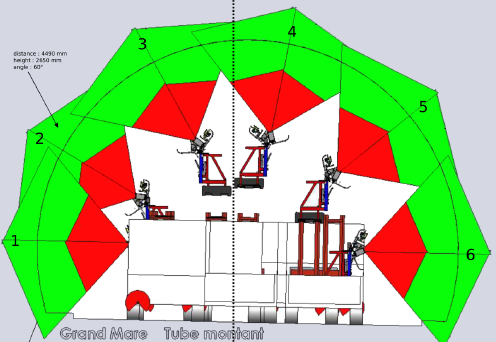
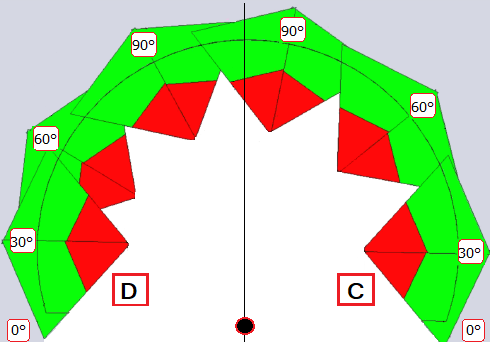
Mise à jour

diff --git a/app.py b/app.py
@@ -1639,33 +1639,33 @@ class Frames8(Frame):
             logging.error('Erreur lors de la lecture du fichier: %s', e)
             return f"Une erreur s'est produite : {e}"
 
-class OpenGLWidget(QGLWidget):
-    def __init__(self, parent=None):
-        super(OpenGLWidget, self).__init__(parent)
-        self.width = self.size().width()
-        self.height = self.size().height()
-
-    def initializeGL(self):
-        glEnable(GL_DEPTH_TEST)
-
-    def resizeGL(self, width, height):
-        self.width = width
-        self.height = height
-        glViewport(0, 0, self.width, self.height)
-        glMatrixMode(GL_PROJECTION)
-        glLoadIdentity()
-        #gluOrtho2D(0, self.width, 0, self.height)
-        glMatrixMode(GL_MODELVIEW)
-        glLoadIdentity()
-
-    def paintGL(self):
-        glClear(GL_COLOR_BUFFER_BIT | GL_DEPTH_BUFFER_BIT)
-        glBegin(GL_TRIANGLES)
-        glVertex2f(0, 0)
-        glVertex2f(self.width, 0)
-        glVertex2f(self.width / 2, self.height)
-        glEnd()
-        self.swapBuffers()
+#class OpenGLWidget(QGLWidget):
+#    def __init__(self, parent=None):
+#        super(OpenGLWidget, self).__init__(parent)
+#        self.width = self.size().width()
+#        self.height = self.size().height()
+#
+#    def initializeGL(self):
+#        glEnable(GL_DEPTH_TEST)
+#
+#    def resizeGL(self, width, height):
+#        self.width = width
+#        self.height = height
+#        glViewport(0, 0, self.width, self.height)
+#        glMatrixMode(GL_PROJECTION)
+#        glLoadIdentity()
+#        #gluOrtho2D(0, self.width, 0, self.height)
+#        glMatrixMode(GL_MODELVIEW)
+#        glLoadIdentity()
+#
+#    def paintGL(self):
+#        glClear(GL_COLOR_BUFFER_BIT | GL_DEPTH_BUFFER_BIT)
+#        glBegin(GL_TRIANGLES)
+#        glVertex2f(0, 0)
+#        glVertex2f(self.width, 0)
+#        glVertex2f(self.width / 2, self.height)
+#        glEnd()
+#        self.swapBuffers()
 class View(Frame):
     def __init__(self, parent):
         Frame.__init__(self, parent)
@@ -1682,7 +1682,7 @@ class View(Frame):
 
         # Chargement de l'image du tunnel
         self.tunnel_image_path = 'images/tunnel.png'
-        self.tunnel_canvas = Canvas(self.image_frame, width=500, height=450)
+        self.tunnel_canvas = Canvas(self.image_frame, width=500, height=350)
         self.tunnel_canvas.pack()
         self.load_tunnel_image()
 
@@ -1690,17 +1690,27 @@ class View(Frame):
         control_frame = Frame(main_frame)
         control_frame.pack(side=tk.RIGHT, fill=tk.Y, padx=5, pady=5)
 
-        # Cadre pour les boutons
+        # Cadre pour les boutons, placé par paires
         button_frame = Frame(control_frame)
         button_frame.pack(fill=tk.X)
 
-        # Boutons pour chaque commande
-        ttk.Button(button_frame, text="Voir le dossier des BDD", command=self.explorer).pack(side=tk.TOP, fill=tk.X, padx=5, pady=5)
-        ttk.Button(button_frame, text="Voir toutes les données", command=self.view_all_data).pack(side=tk.TOP, fill=tk.X, padx=5, pady=5)
-        ttk.Button(button_frame, text="Voir les données LCMS", command=self.view_lcms_data).pack(side=tk.TOP, fill=tk.X, padx=5, pady=5)
-        ttk.Button(button_frame, text="Voir les données Fers apparents", command=lambda: self.view_other_table_data("fer_apparents")).pack(side=tk.TOP, fill=tk.X, padx=5, pady=5)
-        ttk.Button(button_frame, text="Voir les données Fissures", command=lambda: self.view_other_table_data("fissures")).pack(side=tk.TOP, fill=tk.X, padx=5, pady=5)
-        ttk.Button(button_frame, text="Supprimer", width=20, command=self.delete_item).pack(side=tk.TOP, fill=tk.X, padx=5, pady=5)
+        # Cadre pour la première paire de boutons
+        button_pair1 = Frame(button_frame)
+        button_pair1.pack(fill=tk.X)
+        ttk.Button(button_pair1, text="Voir le dossier des BDD", width=40, command=self.explorer).pack(side=tk.LEFT, fill=tk.X, padx=5, pady=5)
+        ttk.Button(button_pair1, text="Voir toutes les données", width=40, command=self.view_all_data).pack(side=tk.LEFT, fill=tk.X, padx=5, pady=5)
+
+        # Cadre pour la deuxième paire de boutons
+        button_pair2 = Frame(button_frame)
+        button_pair2.pack(fill=tk.X)
+        ttk.Button(button_pair2, text="Données LCMS", width=40, command=self.view_lcms_data).pack(side=tk.LEFT, fill=tk.X, padx=5, pady=5)
+        ttk.Button(button_pair2, text="Données Fers apparents", width=40, command=lambda: self.view_other_table_data("fer_apparents")).pack(side=tk.LEFT, fill=tk.X, padx=5, pady=5)
+
+        # Cadre pour la troisième paire de boutons
+        button_pair3 = Frame(button_frame)
+        button_pair3.pack(fill=tk.X)
+        ttk.Button(button_pair3, text="Données Fissures", width=40, command=lambda: self.view_other_table_data("fissures")).pack(side=tk.LEFT, fill=tk.X, padx=5, pady=5)
+        ttk.Button(button_pair3, text="Supprimer", width=40, command=self.delete_item).pack(side=tk.LEFT, fill=tk.X, padx=5, pady=5)
 
         # Cadre pour l'entrée de recherche et le bouton de recherche
         search_frame = Frame(control_frame)
@@ -1727,14 +1737,14 @@ class View(Frame):
         # Sélection de la base de données
         self.database_label = ttk.Label(select_frame, text="Base de données:")
         self.database_label.grid(row=0, column=0, padx=5, pady=5)
-        self.database_combobox = ttk.Combobox(select_frame, width=40)
+        self.database_combobox = ttk.Combobox(select_frame, width=30)
         self.database_combobox.grid(row=0, column=1, padx=5, pady=5)
         self.database_combobox.bind("<<ComboboxSelected>>", self.load_tables)
 
         # Sélection de la table
         self.table_label = ttk.Label(select_frame, text="Table:")
         self.table_label.grid(row=1, column=0, padx=5, pady=5)
-        self.table_combobox = ttk.Combobox(select_frame, width=40)
+        self.table_combobox = ttk.Combobox(select_frame, width=30)
         self.table_combobox.grid(row=1, column=1, padx=5, pady=5)
         self.table_combobox.bind("<<ComboboxSelected>>", self.display_selected_table)
 
@@ -1957,7 +1967,7 @@ class View(Frame):
             messagebox.showerror("Erreur", f"Une erreur s'est produite lors de la récupération des données : {e}")
 
     def on_treeview_select(self, event):
-        # Get the selected row
+        # Récupère la ligne sélectionnée
         selected_item = self.tree.selection()
         if not selected_item:
             return
@@ -1965,7 +1975,7 @@ class View(Frame):
         item = self.tree.item(selected_item)
         values = item['values']
 
-        # Assuming the table columns contain 'sens' and 'angle', find their indices
+        # Trouver les indices des colonnes 'sens' et 'angle' 
         columns = self.tree["columns"]
         try:
             sens_index = columns.index('sens')
@@ -1976,53 +1986,54 @@ class View(Frame):
         sens = values[sens_index]
         angle = values[angle_index]
 
-        # Now, highlight the relevant sections in the tunnel diagram
         self.highlight_tunnel_section(sens, angle)
 
     def highlight_tunnel_section(self, sens, angle):
-        # Clear any previous highlights
+        # Effacer tous les highlights précédents  
         self.tunnel_canvas.delete("highlight")
 
-        # Center of the image
-        x0, y0 = self.tunnel_photo.width() // 2, self.tunnel_photo.height() // 2
-        length = 100  # Length of the line
+        # En bas au centre de l'image
+        x0 = self.tunnel_photo.width() // 2
+        y0 = self.tunnel_photo.height() - 15
+        length = 200 
 
-        # Adjust angle based on the 'sens'
-        if sens == 'D':  # Left side of the image
+        # Ajuster l'angle en fonction du 'sens'
+        if sens == 'D':  # Côté gauche de l'image
             if angle == 0:
                 adjusted_angle = 180
             elif angle == 30:
                 adjusted_angle = 150
             elif angle == 60:
-                adjusted_angle = 120
+                adjusted_angle = 125
             elif angle == 90:
-                adjusted_angle = 90
+                adjusted_angle = 100
             else:
-                return  # Invalid angle
-        elif sens == 'C':  # Right side of the image
+                return  
+        elif sens == 'C':  # Côté droit de l'image
             if angle == 0:
                 adjusted_angle = 0
             elif angle == 30:
                 adjusted_angle = 30
             elif angle == 60:
-                adjusted_angle = 60
+                adjusted_angle = 55
             elif angle == 90:
-                adjusted_angle = 90
+                adjusted_angle = 80
             else:
-                return  # Invalid angle
+                return  
         else:
-            return  # Invalid 'sens'
+            return  
 
-        # Calculate end point based on the adjusted angle
+        # Calculer le point final en fonction de l'angle ajusté
         x1 = x0 + length * math.cos(math.radians(adjusted_angle))
-        y1 = y0 - length * math.sin(math.radians(adjusted_angle))  # Inverted y-axis for tkinter
+        y1 = y0 - length * math.sin(math.radians(adjusted_angle))  
 
-        # Draw the arrow on the canvas
-        self.tunnel_canvas.create_line(x0, y0, x1, y1, fill="black", width=8, arrow=tk.LAST, tags="highlight")
+        # Dessiner la flèche sur le canvas
+        self.tunnel_canvas.create_line(x0, y0, x1, y1, fill="black", width=6, arrow=tk.LAST, tags="highlight")
+
 
         # Ajouter un footer
         footer = tk.Label(text="© Crack Base 2024 - ENDSUM", relief=tk.SUNKEN, anchor=tk.W, font=("Castellar", 12, "italic"), bg="black", fg="white")
-        footer.grid(row=6, column=0, sticky="ew")
+        footer.grid(row=0, column=0, sticky="ew")
 
 if __name__ == "__main__":
     app = CrackBase()
